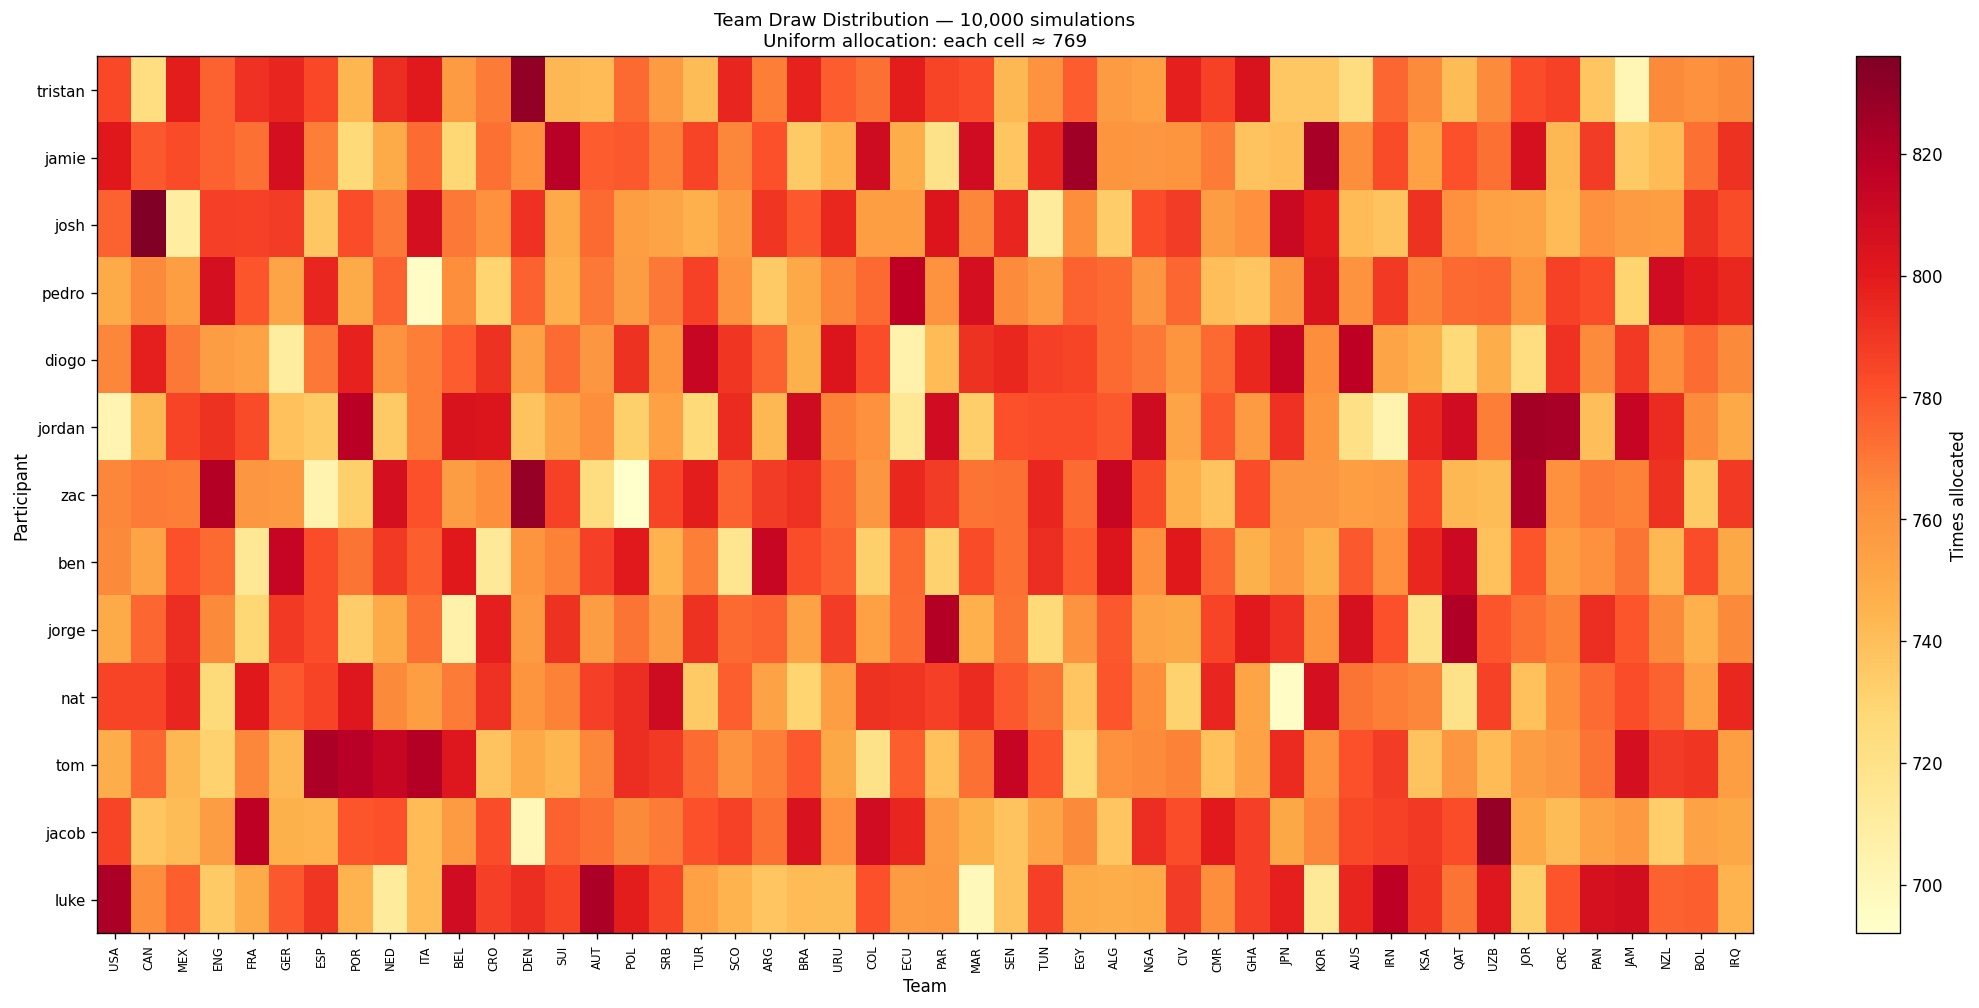
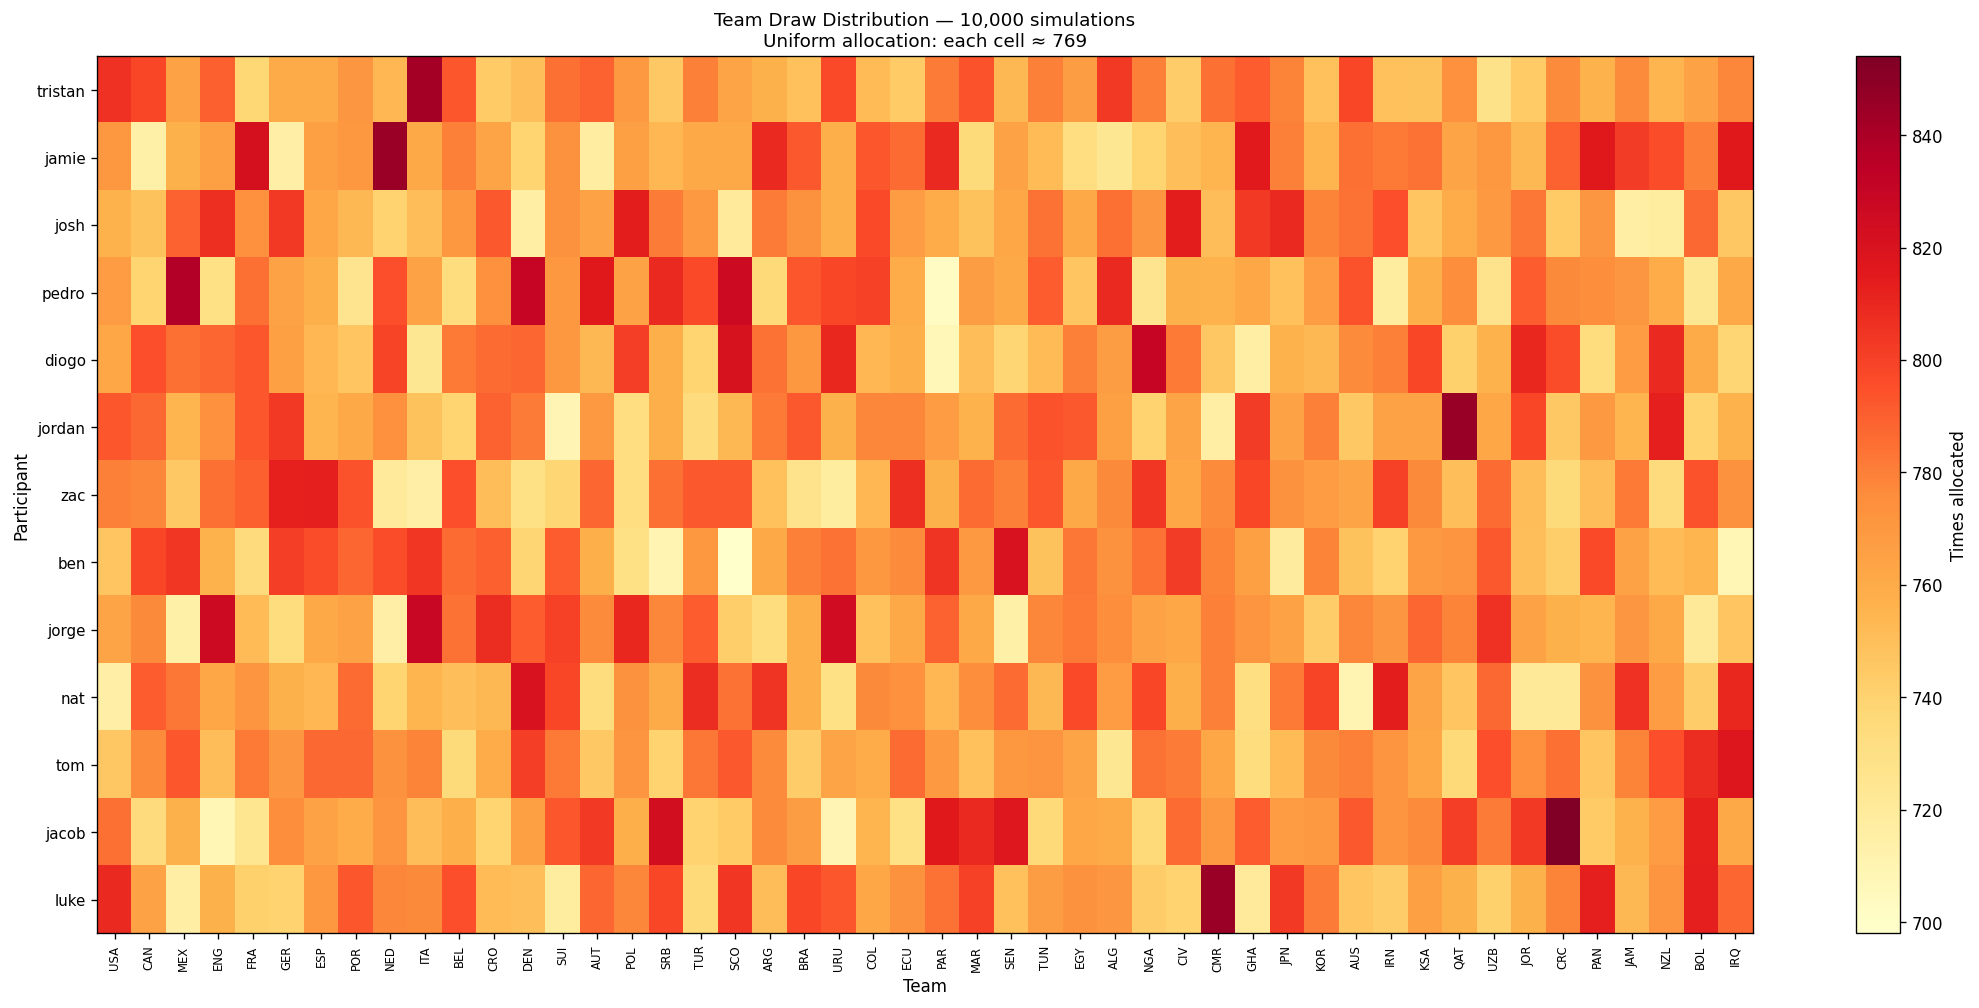
fix: draw distribution, spectators, lingo, standings cutoff (#4)
* fix: draw distribution, spectator visibility, lingo, standings cutoff

- allocator: quota-based distribution prevents 5-team allocations;
  host recipients have their quota decremented before round-robin fill
- leaderboard: filter spectators from computeStandings so admin never
  appears on standings or allocation table
- page.tsx: remove .slice(0,12) so all 13 players show; compute pot
  from paidIn count not total participants
- me/page.tsx: rank shows "X OF 13" (non-spectators only)
- ALIVE → IN everywhere in UI text

* fix(scripts): quota-based draw in run_draw.py; updated heatmap

Same quota fix as lib/allocator.ts — host recipients have their
quota decremented before filling remaining slots, preventing any
participant from receiving more than base+1 teams.

---------

diff --git a/lib/allocator.ts b/lib/allocator.ts
@@ -66,24 +66,31 @@ export function allocate(
   const result: Record<string, string[]> = {};
   for (const p of ps) result[p.id] = [];
 
+  // Compute per-participant quotas so no one gets more than base+1 teams.
+  const base = Math.floor(ts.length / ps.length);
+  const extras = ts.length % ps.length;
+  const extraSet = new Set(shuffle([...ps], rng).slice(0, extras).map((p) => p.id));
+  const quotas = new Map(ps.map((p) => [p.id, extraSet.has(p.id) ? base + 1 : base]));
+
   // Distribute hosts first when guard applies, one per participant.
+  // Deduct from that participant's quota so the total stays correct.
   if (ps.length >= hosts.length) {
-    const recipients = shuffle(ps, rng).slice(0, hosts.length);
+    const recipients = shuffle([...ps], rng).slice(0, hosts.length);
     recipients.forEach((p, i) => {
       result[p.id].push(hosts[i].code);
+      quotas.set(p.id, quotas.get(p.id)! - 1);
     });
   } else {
-    // n < hosts: relax guard, push all hosts into the pool.
+    // n < hosts: relax guard, push all hosts into the non-host pool.
     nonHosts.push(...hosts);
   }
 
-  // Greedy round-robin over remaining teams, randomised start so
-  // the same person doesn't always get a slight edge.
-  const startIdx = Math.floor(rng() * ps.length);
-  let cursor = startIdx;
-  for (const team of shuffle(nonHosts, rng)) {
-    result[ps[cursor].id].push(team.code);
-    cursor = (cursor + 1) % ps.length;
+  // Fill remaining quota slots from the shuffled non-host pool.
+  const nonHostQueue = shuffle(nonHosts, rng);
+  let qi = 0;
+  for (const p of ps) {
+    const slots = quotas.get(p.id)!;
+    for (let i = 0; i < slots; i++) result[p.id].push(nonHostQueue[qi++].code);
   }
 
   // Sort each participant's teams alphabetically for stable display.

diff --git a/app/page.tsx b/app/page.tsx
@@ -74,7 +74,7 @@ export default async function HomePage() {
     ]);
 
   const standings = computeStandings(participants, allocation, matches);
-  const potGbp = computePotGbp(participants.length);
+  const potGbp = computePotGbp(participants.filter((p) => p.paidIn).length);
 
   const displaySpecials =
     specials.length > 0
@@ -150,12 +150,12 @@ export default async function HomePage() {
                   <tr style={{ borderBottom: "1px solid #333333" }}>
                     <th style={{ color: "#00FFFF", padding: "4px 8px 4px 10px", textAlign: "right", fontSize: "0.8em", fontWeight: "normal" }}>#</th>
                     <th style={{ color: "#00FFFF", padding: "4px 8px", textAlign: "left", fontSize: "0.8em", fontWeight: "normal" }}>PLAYER</th>
-                    <th style={{ color: "#00FFFF", padding: "4px 8px", textAlign: "right", fontSize: "0.8em", fontWeight: "normal" }}>ALIVE</th>
+                    <th style={{ color: "#00FFFF", padding: "4px 8px", textAlign: "right", fontSize: "0.8em", fontWeight: "normal" }}>IN</th>
                     <th style={{ color: "#00FFFF", padding: "4px 10px 4px 4px", fontSize: "0.8em", fontWeight: "normal" }}></th>
                   </tr>
                 </thead>
                 <tbody>
-                  {standings.slice(0, 12).map((row, i) => (
+                  {standings.map((row, i) => (
                     <RankedRow
                       key={row.participantId}
                       rank={i + 1}
@@ -167,20 +167,6 @@ export default async function HomePage() {
                       isLeader={i === 0}
                     />
                   ))}
-                  {woodenSpoonWinnerId && (() => {
-                    const spoonRow = standings.find(r => r.participantId === woodenSpoonWinnerId);
-                    const spoonIdx = standings.findIndex(r => r.participantId === woodenSpoonWinnerId);
-                    if (!spoonRow || spoonIdx < 12) return null;
-                    return (
-                      <tr>
-                        <td colSpan={4} style={{ padding: "4px 10px", fontSize: "0.85em" }}>
-                          <span className="tt-badge tt-badge-yellow tt-flash">
-                            WOODEN SPOON: {spoonRow.displayName} £20
-                          </span>
-                        </td>
-                      </tr>
-                    );
-                  })()}
                 </tbody>
               </table>
             )}

diff --git a/lib/leaderboard.ts b/lib/leaderboard.ts
@@ -40,8 +40,10 @@ export function computeStandings(
   allocation: AllocationRecord | null,
   matches: Match[],
 ): StandingRow[] {
+  const eligible = participants.filter((p) => !p.spectator);
+
   if (!allocation) {
-    return participants.map((p) => ({
+    return eligible.map((p) => ({
       participantId: p.id,
       displayName: p.displayName,
       points: 0,
@@ -82,7 +84,7 @@ export function computeStandings(
     }
   }
 
-  const rows: StandingRow[] = participants.map((p) => {
+  const rows: StandingRow[] = eligible.map((p) => {
     const teamCodes =
       allocation.byParticipant.find((a) => a.participantId === p.id)
         ?.teamCodes ?? [];

diff --git a/app/me/page.tsx b/app/me/page.tsx
@@ -115,8 +115,8 @@ export default async function MePage() {
           }}
         >
           {[
-            { label: "RANK", value: myRank > 0 ? `${myRank} OF ${participants.length}` : "—" },
-            { label: "ALIVE", value: aliveCount > 0 ? `${aliveCount} TEAMS` : "NONE" },
+            { label: "RANK", value: myRank > 0 ? `${myRank} OF ${participants.filter((p) => !p.spectator).length}` : "—" },
+            { label: "IN", value: aliveCount > 0 ? `${aliveCount} TEAMS` : "NONE" },
             { label: "POT", value: `£${potGbp}` },
             { label: "SPECIALS", value: String(mySpecials.length) },
           ].map(({ label, value }, i) => (

diff --git a/app/allocation/page.tsx b/app/allocation/page.tsx
@@ -117,7 +117,7 @@ export default async function AllocationPage() {
                     <td style={{ padding: "6px 12px", textAlign: "right", verticalAlign: "top" }}>
                       {row.stillIn ? (
                         <span className="tt-badge tt-badge-green">
-                          {aliveTeams.length} ALIVE
+                          {aliveTeams.length} IN
                         </span>
                       ) : (
                         <span className="tt-badge tt-badge-red">OUT</span>

diff --git a/components/RankedRow.tsx b/components/RankedRow.tsx
@@ -70,7 +70,7 @@ export default function RankedRow({
 
       <td style={{ padding: "5px 8px", textAlign: "right", verticalAlign: "middle", whiteSpace: "nowrap" }}>
         {aliveCount > 0 ? (
-          <span style={{ color: "#FFFF00", fontSize: "0.9em" }}>{aliveCount} ALIVE</span>
+          <span style={{ color: "#FFFF00", fontSize: "0.9em" }}>{aliveCount} IN</span>
         ) : (
           <span style={{ color: "#ffffff", opacity: 0.4, fontSize: "0.9em" }}>0</span>
         )}

diff --git a/scripts/run_draw.py b/scripts/run_draw.py
@@ -69,19 +69,28 @@ def fisher_yates_draw(participants: list[str], rng: random.Random) -> dict[str, 
 
     result: dict[str, list[str]] = {p: [] for p in ps}
 
-    # Distribute hosts one-per-participant when possible
+    # Quota: base = floor(48/n), extras participants get base+1
+    base = len(TEAMS) // n
+    extras = len(TEAMS) % n
+    extra_ps = set(rng.sample(ps, k=extras))
+    quotas = {p: base + (1 if p in extra_ps else 0) for p in ps}
+
+    # Distribute hosts one-per-participant, deducting from quota
     if n >= len(hosts):
         recipients = rng.sample(ps, k=len(hosts))
         for p, h in zip(recipients, hosts):
             result[p].append(h)
+            quotas[p] -= 1
     else:
         non_hosts.extend(hosts)
 
-    # Round-robin the remaining teams from a random start
+    # Fill remaining quota slots from shuffled non-hosts
     rng.shuffle(non_hosts)
-    start = rng.randrange(n)
-    for i, team in enumerate(non_hosts):
-        result[ps[(start + i) % n]].append(team)
+    qi = 0
+    for p in ps:
+        for _ in range(quotas[p]):
+            result[p].append(non_hosts[qi])
+            qi += 1
 
     # Sort each participant's list for stable display
     for p in ps: